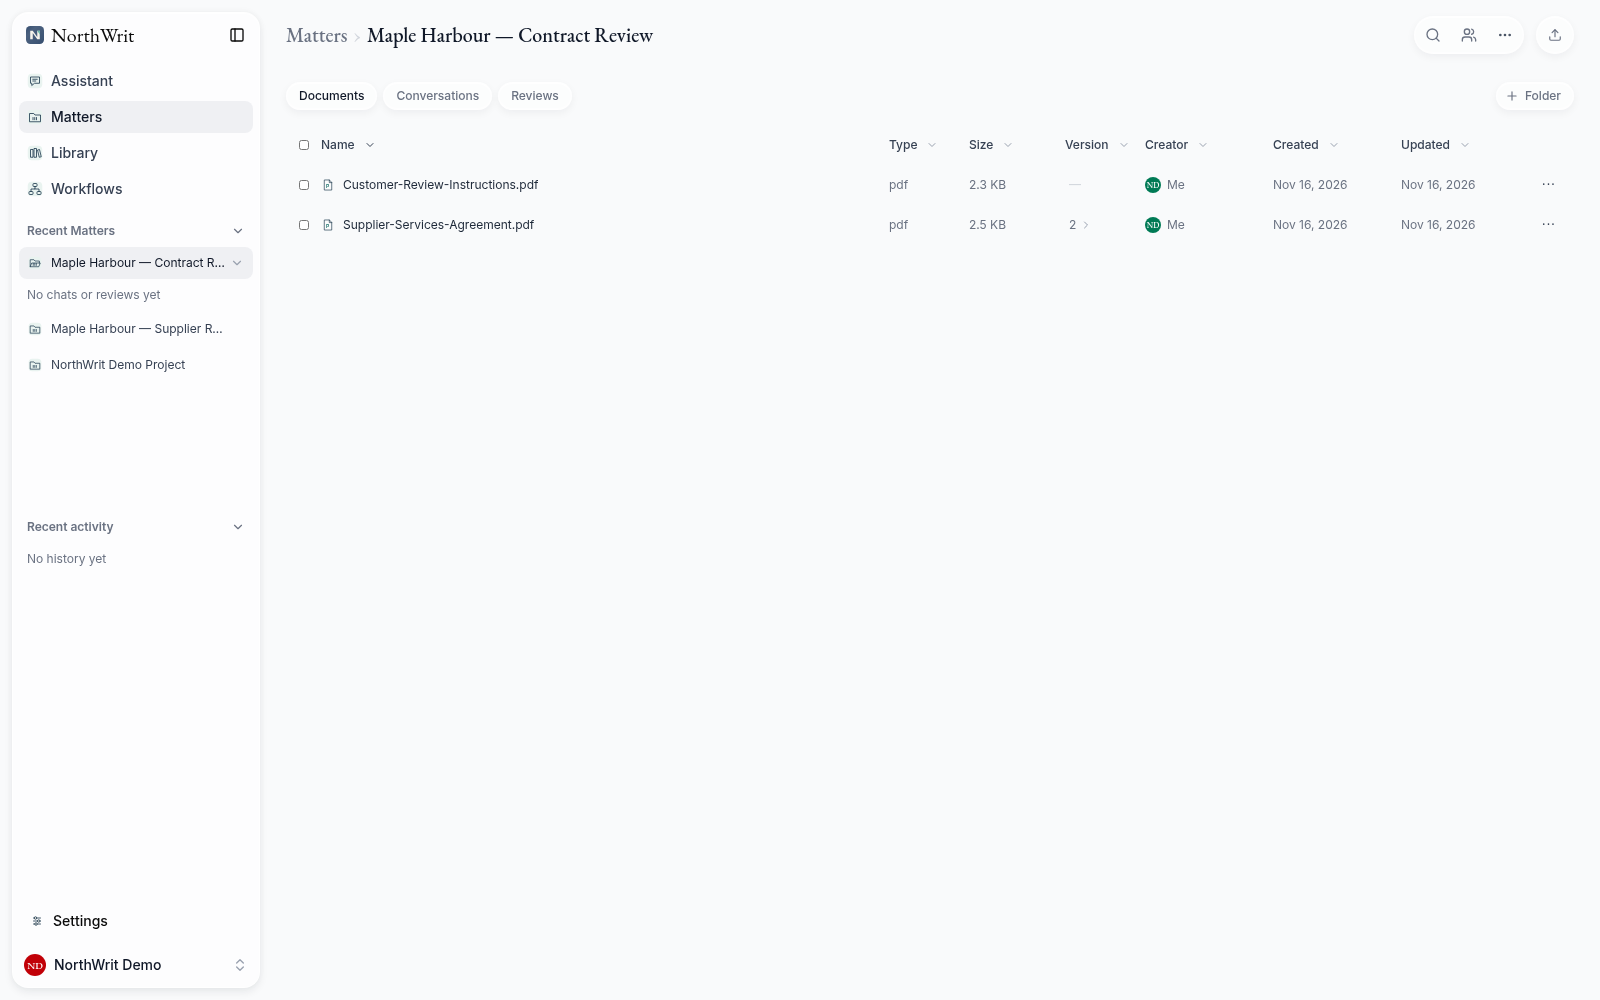
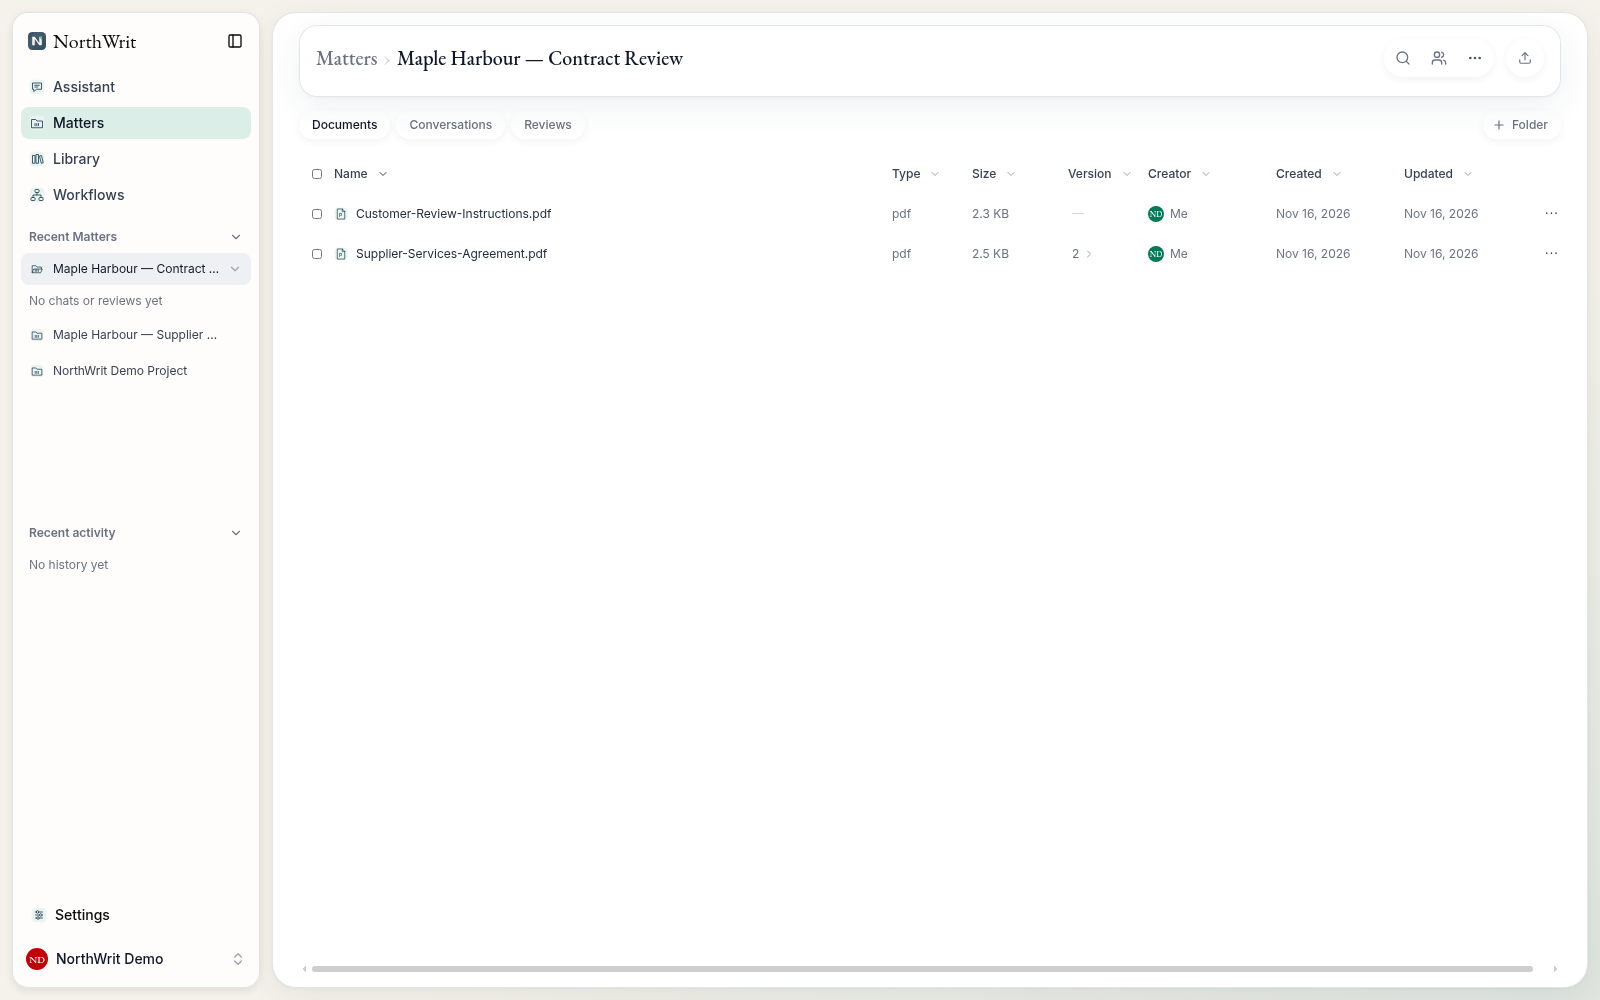
docs: showcase floating workspace in README and demo

diff --git a/docs/guides/demo.md b/docs/guides/demo.md
@@ -1,6 +1,6 @@
 # NorthWrit supplier-review demo
 
-Refreshed November 16, 2026 for the NorthWrit visual identity on checkout `92f00e4`. The seven UI captures show the current NorthWrit mark and icon family. The web preview uses a fresh production build, verified with the API and actual Linux Electron client. This walkthrough uses a synthetic account and fictional documents. No real client data, provider credentials or generated AI findings appear in the assets.
+Refreshed November 16, 2026 for the floating glass workspace on checkout `ef88709`. The seven UI captures show the current NorthWrit mark, icon family and floating workspace surfaces. The web preview uses a fresh production build, verified with the API and actual Linux Electron client. This walkthrough uses a synthetic account and fictional documents. No real client data, provider credentials or generated AI findings appear in the assets.
 
 The refreshed run created **Maple Harbour — Contract Review** (`DEMO-003`), processed both sample PDFs, created and downloaded Version 2, saved two reusable workflows, and opened their real UI pages. Creation and upload operations used the authenticated application API; preview, version visibility, download and cross-client views were verified through the UI. The downloaded revision's SHA-256 matched the uploaded PDF. Existing demo data was retained.
 

diff --git a/README.md b/README.md
@@ -22,6 +22,21 @@ Built for Canadian law firms and in-house teams. **Available as a development pr
 
 *Start a conversation with authorized documents and an available model. This capture shows the Assistant starting screen, before AI execution.*
 
+## A calmer workspace
+
+Floating glass navigation and controls frame solid reading surfaces for documents, conversations and review tables. Light and dark themes, compact mobile navigation, and opaque accessibility fallbacks keep the focus on your work.
+
+<details>
+<summary>See dark mode and mobile navigation</summary>
+
+![NorthWrit Assistant in dark mode with floating navigation and composer](docs/assets/ui/02-assistant-dark.png)
+
+![NorthWrit mobile navigation showing Assistant, Matters, Library and Workflows](docs/assets/ui/04-mobile-navigation.png)
+
+</details>
+
+See the [UI walkthrough and verification](docs/07-implementation/NorthWrit-Floating-Glass-Plan.md) for real web and Electron captures.
+
 ## Built around the work
 
 | What you need | How NorthWrit helps |
